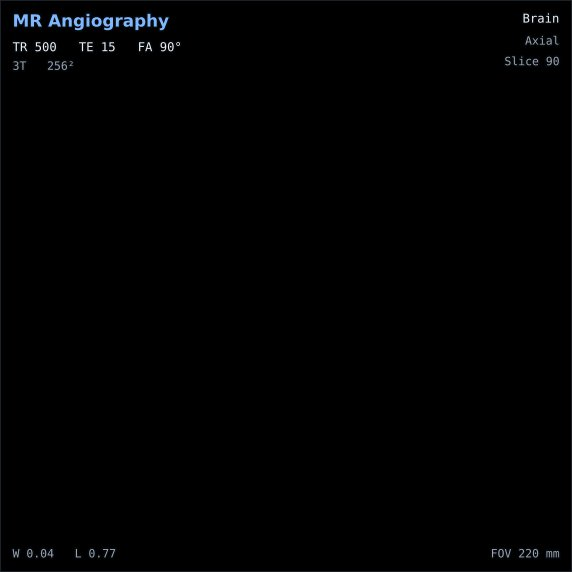
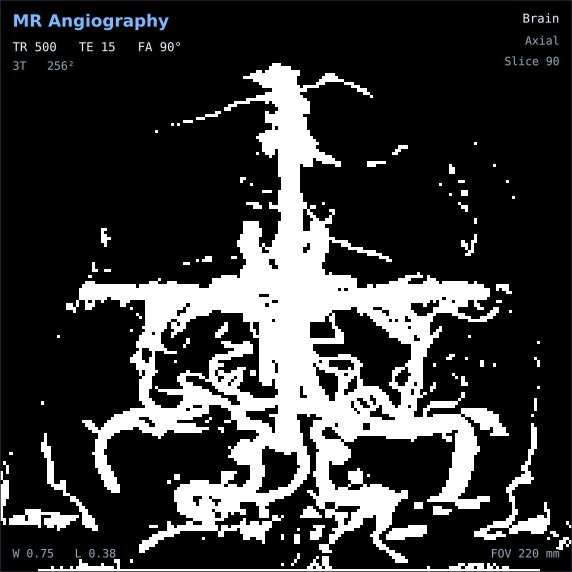
fix(web): PC angiogram rendered black — auto-window degenerate on binary images
A phase-contrast 'Speed' MIP is near-binary by design (every vessel voxel
carries the same |phi|/pi brightness). _draw_image's auto-window anchors its
range at the foreground's 1st percentile, which for a single-valued foreground
puts the vessels exactly at vmin — the whole angiogram displayed black in the
browser and in the pre-rendered TOF-vs-PC lesson image.

When the foreground's p1-p99 spread is under 5% of max, window the full
[0, max] range instead. Normal images keep the percentile window (visual
regression suite unchanged). Regenerated the one affected lesson image.

diff --git a/tests/test_web_adapter.py b/tests/test_web_adapter.py
@@ -829,6 +829,22 @@ def test_render_json_roundtrip():
     _assert_good_render(out, "render_json")
 
 
+def test_pc_angiogram_displays_bright_vessels():
+    """A phase-contrast 'Speed' MIP is near-binary: every vessel voxel carries the
+    same |φ|/π brightness. The display auto-window must not anchor its range on
+    that single foreground value — doing so put the vessels at vmin and rendered
+    the whole angiogram black."""
+    import io
+    from PIL import Image
+    wa.init()
+    r = wa.render({"region": "Brain", "orientation": "axial", "slice_idx": 90,
+                   "params": {"sequence": "MR Angiography", "TR": 500, "TE": 15,
+                              "angio_type": "Phase Contrast"}})
+    raw = _decode(r["image"], "PC angiogram")
+    px = np.asarray(Image.open(io.BytesIO(raw)).convert("L"), dtype=float)
+    assert (px > 128).mean() > 0.05, "PC vessel tree should render bright, not black"
+
+
 def test_coil_shading_matches_physics():
     """Receive-coil shading: the ideal coil is a no-op, each real coil shades the
     image differently, and a surface coil shows strong one-sided falloff."""

diff --git a/src/web_adapter.py b/src/web_adapter.py
@@ -611,7 +611,14 @@ class WebHost(CurvesMixin):
         nz = img[img > 1e-6]
         if nz.size:
             lo, hi = (float(v) for v in np.percentile(nz, (1.0, 99.0)))
-            base, rng = lo, max(hi - lo, mx * 0.05)
+            if hi - lo < mx * 0.05:
+                # (Near-)single-valued foreground — e.g. a phase-contrast angiogram,
+                # where every vessel voxel carries the same |φ|/π speed. Anchoring the
+                # window at that one value would render the foreground black; window
+                # the full [0, max] range instead so it reads bright on dark.
+                base, rng = 0.0, mx
+            else:
+                base, rng = lo, hi - lo
         else:
             base, rng = 0.0, mx
         center, width = base + wl * rng, max(0.01, ww) * rng
